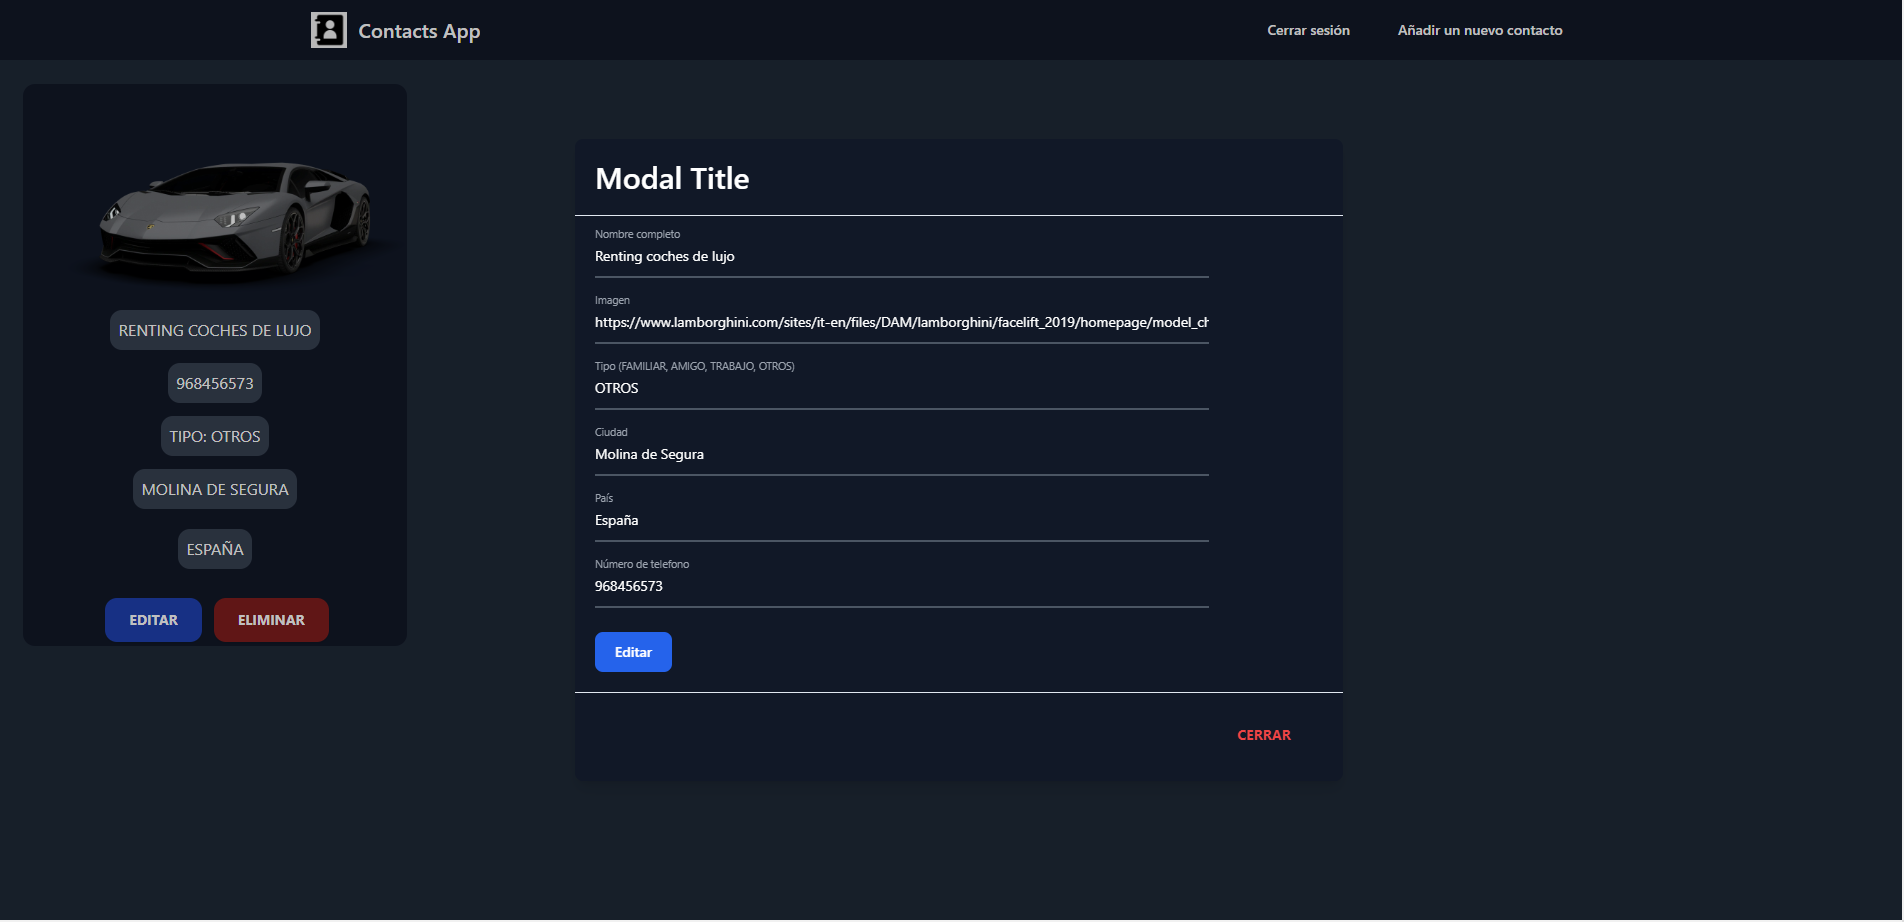
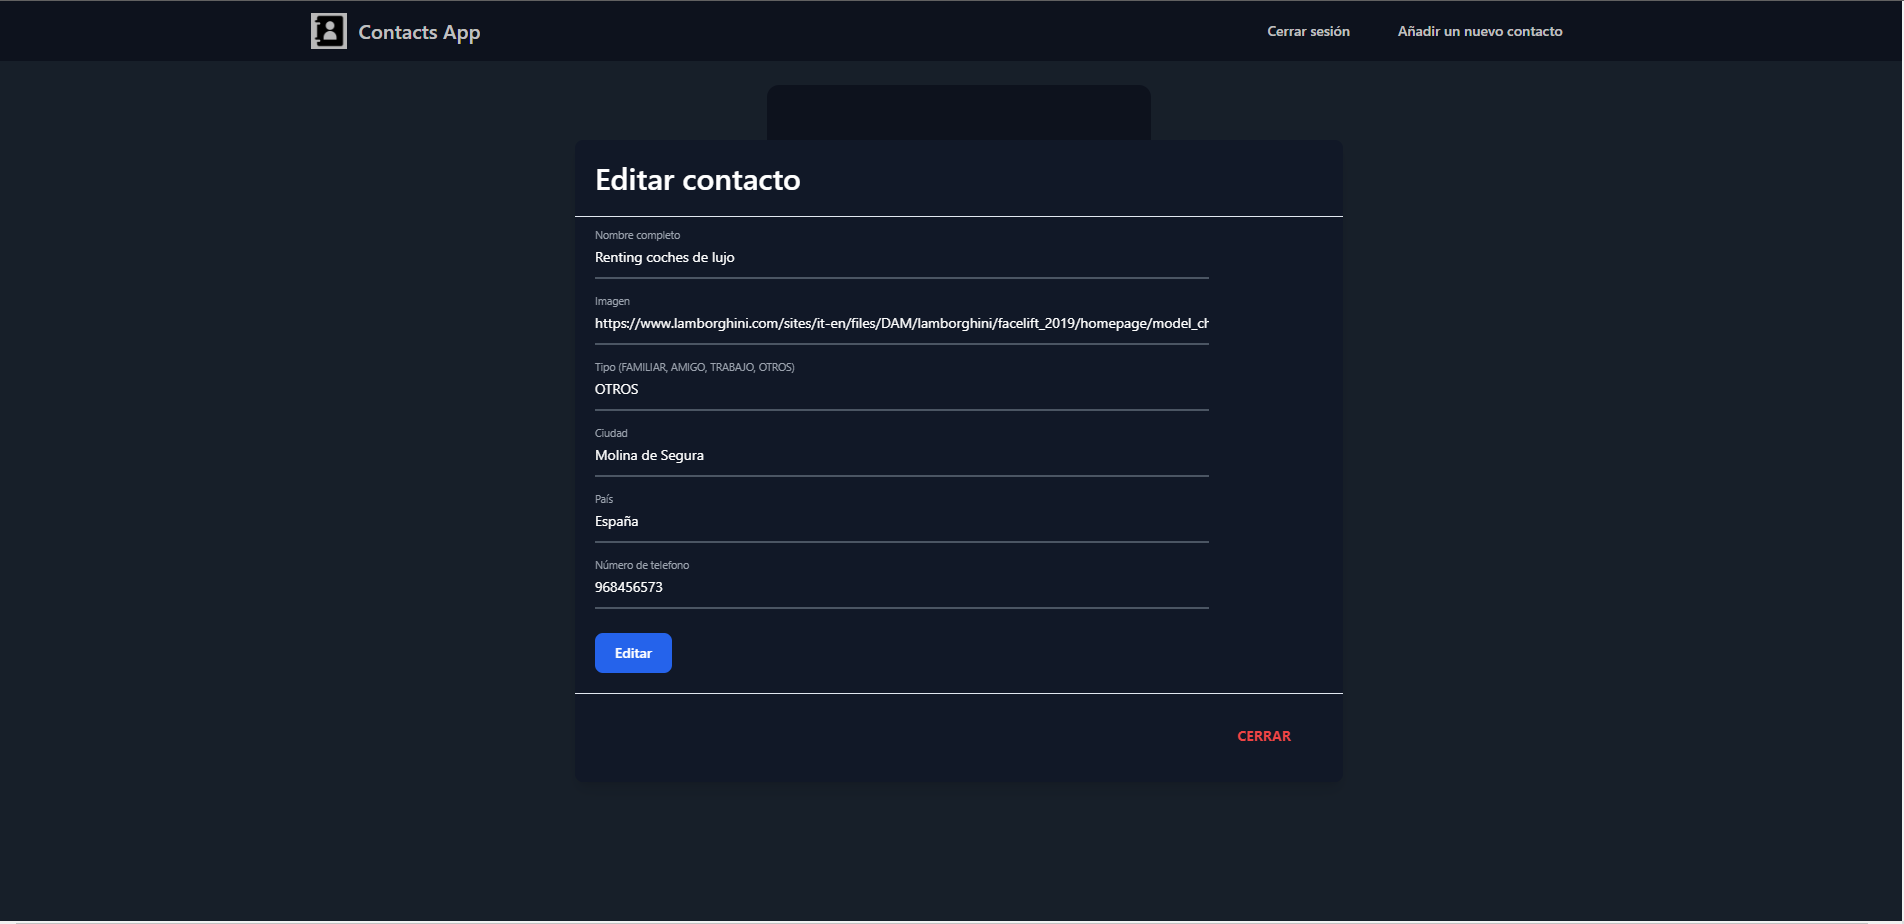
Readme finalizado

diff --git a/Frontend-React/src/components/forms/ModalEditForm.jsx b/Frontend-React/src/components/forms/ModalEditForm.jsx
@@ -78,7 +78,7 @@ function ModalEditForm(props) {
                                 {/*header*/}
                                 <div className="flex items-start justify-between p-5 border-b border-solid border-slate-200 rounded-t">
                                     <h3 className="text-3xl font-semibold">
-                                        Modal Title
+                                        Editar contacto
                                     </h3>
                                     <button
                                         className="p-1 ml-auto bg-transparent border-0 text-black opacity-5 float-right text-3xl leading-none font-semibold outline-none focus:outline-none"
